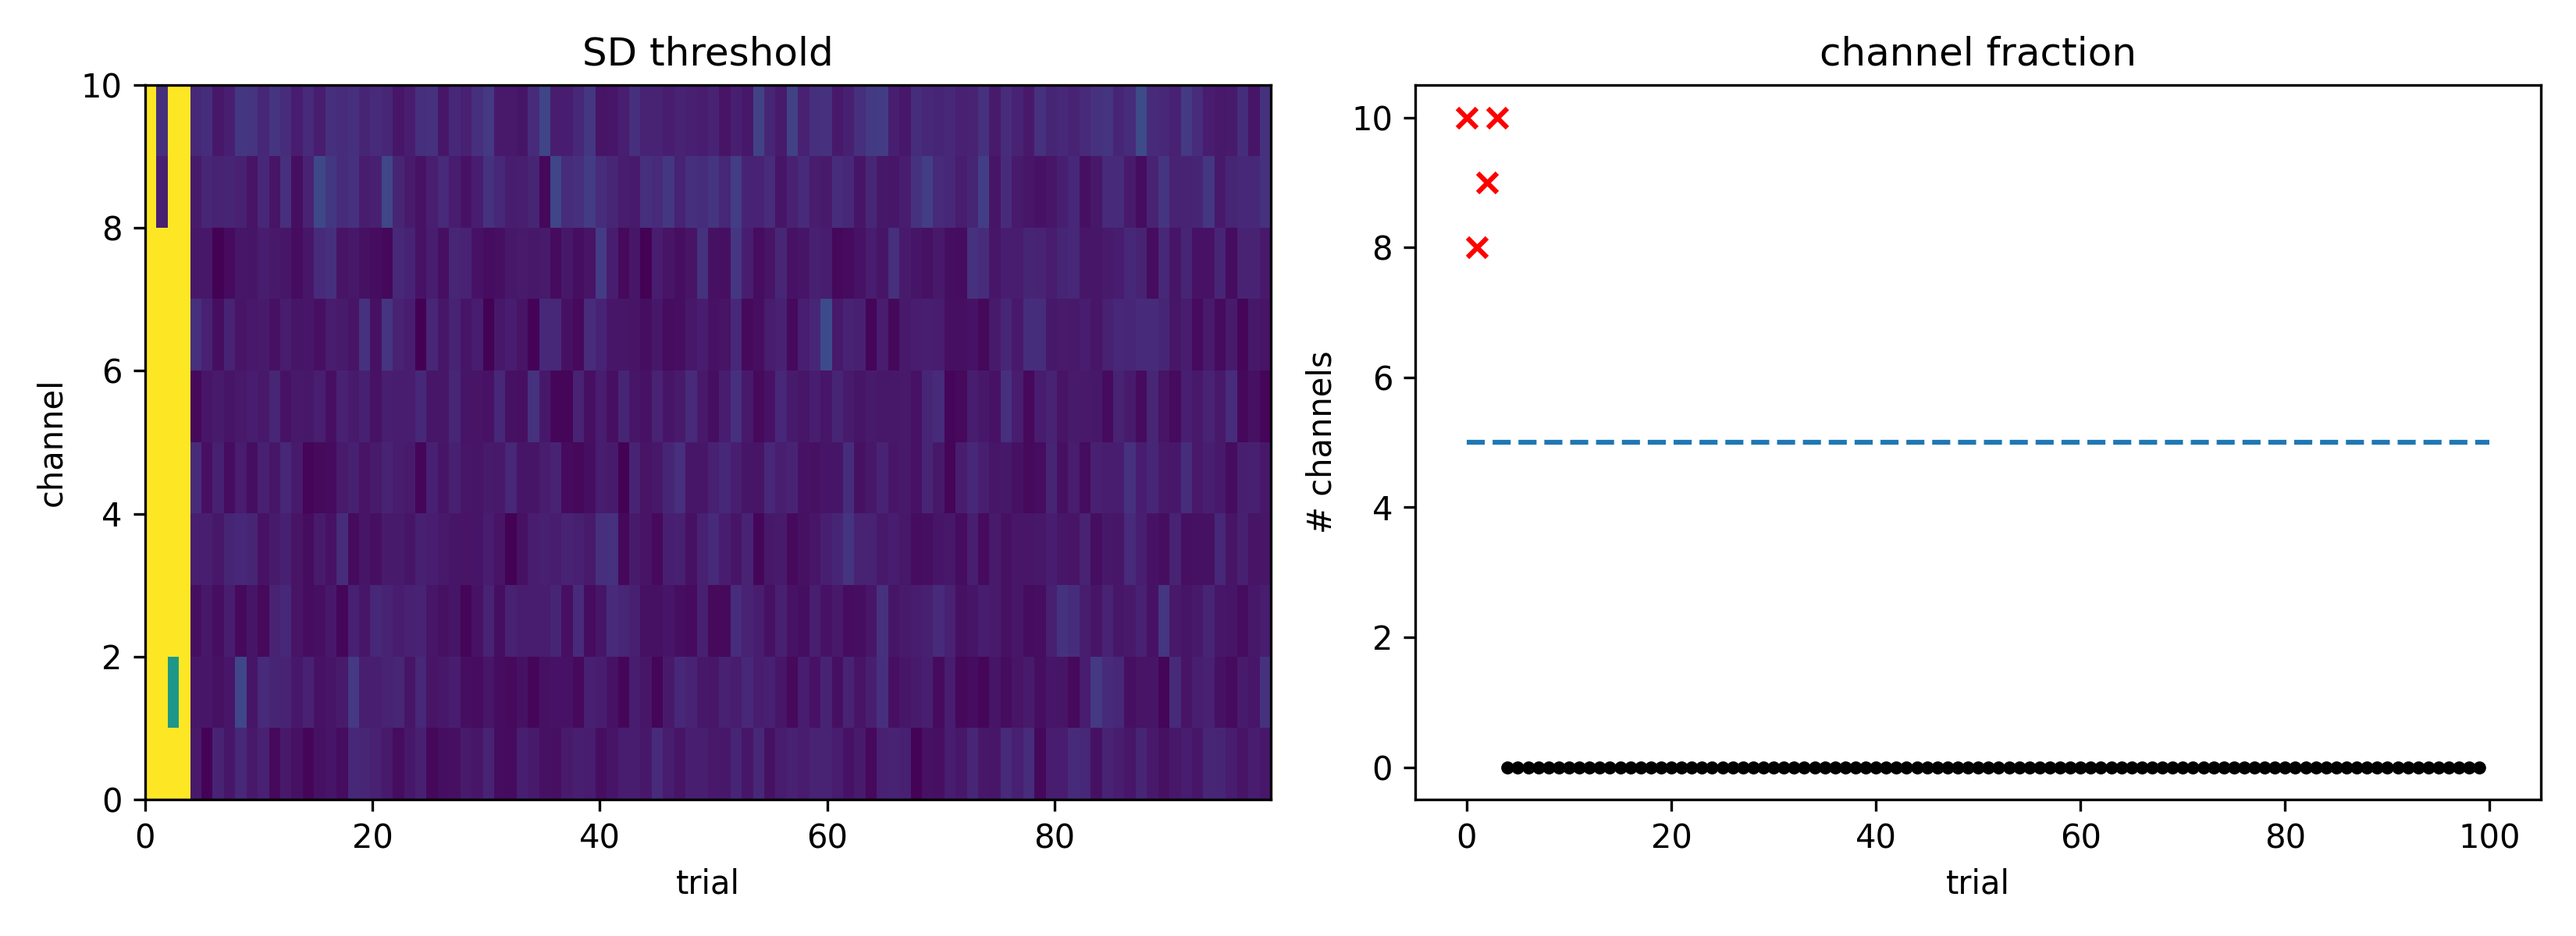
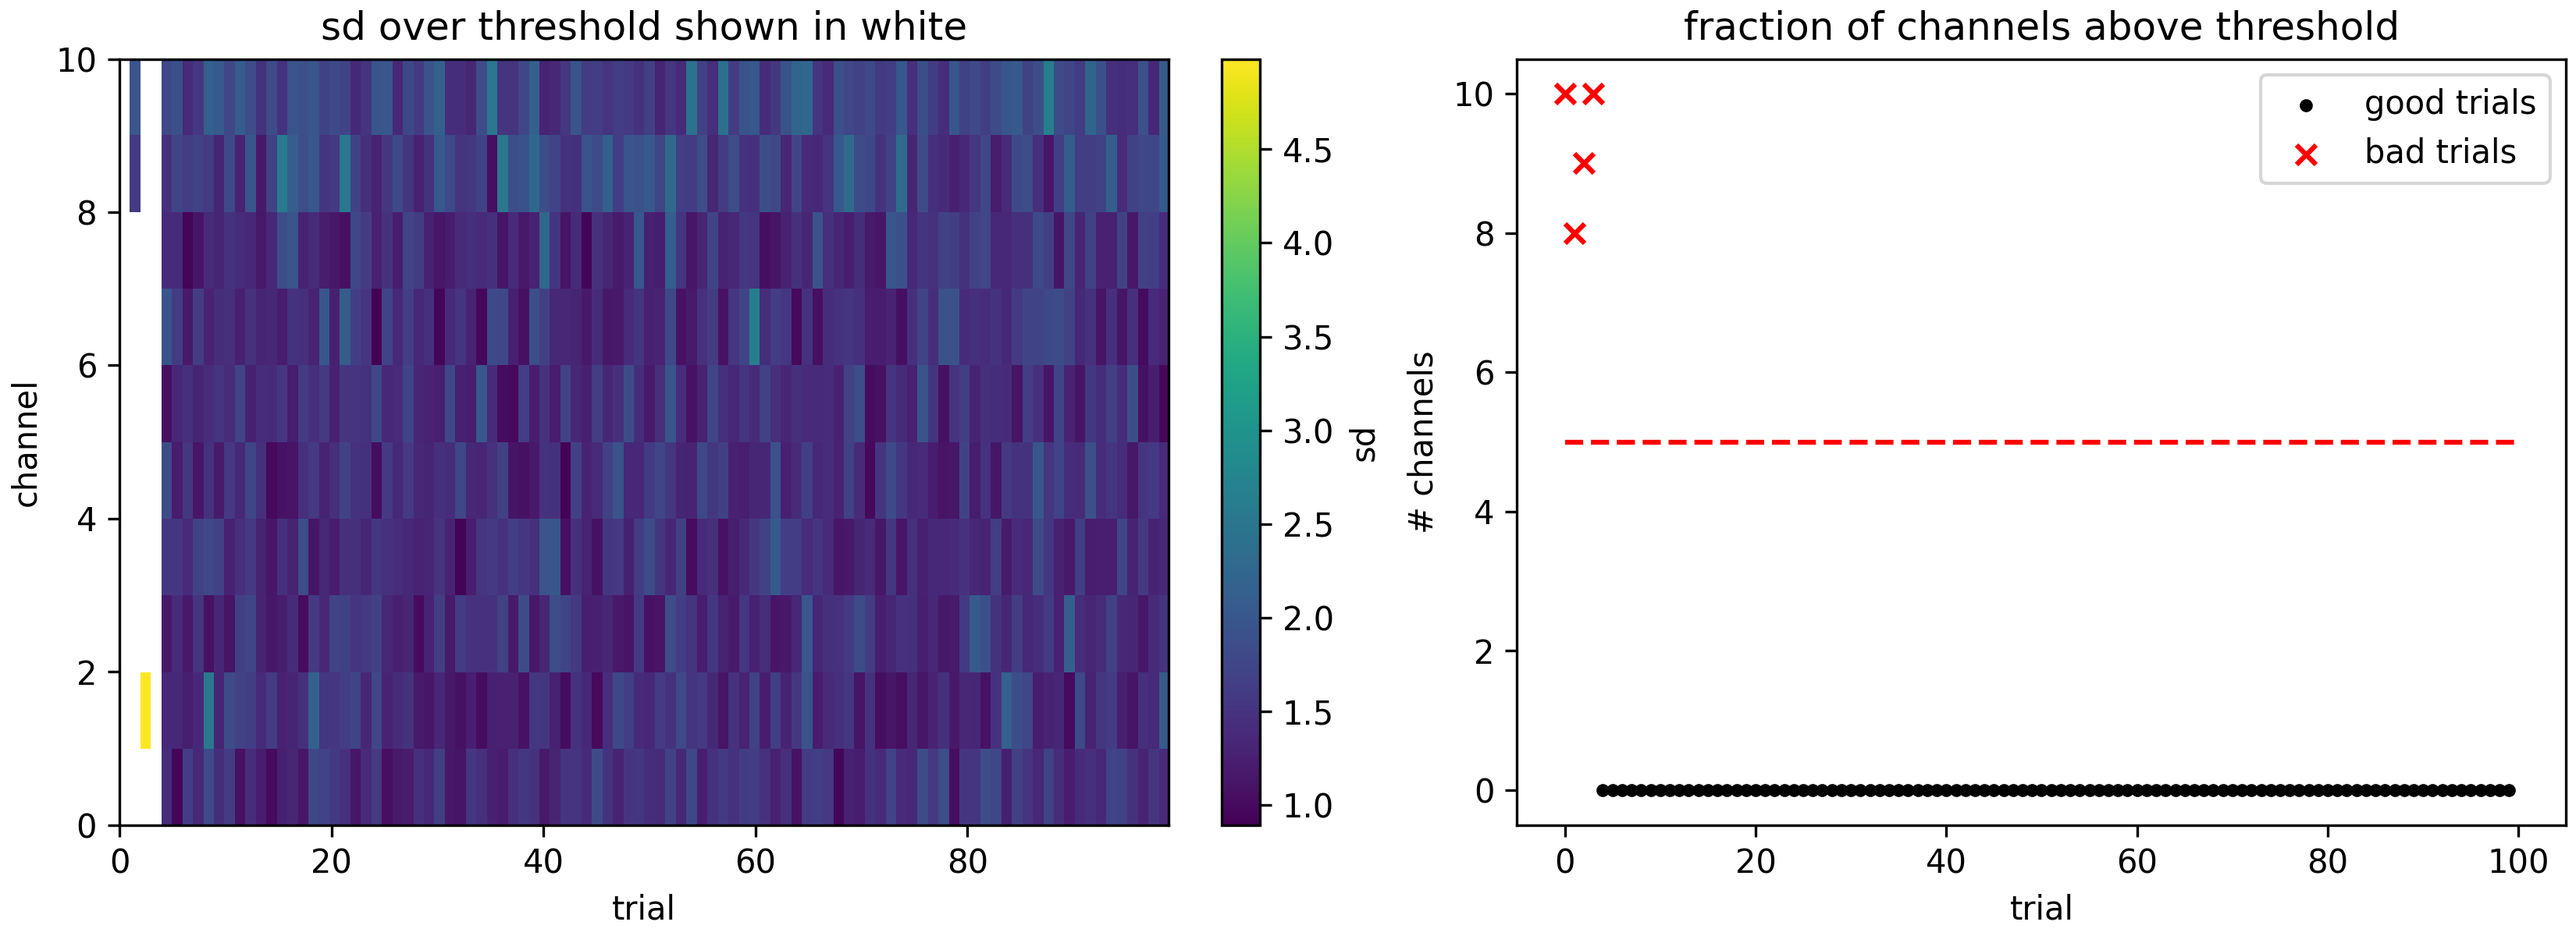
allow nan values

diff --git a/aopy/preproc/quality.py b/aopy/preproc/quality.py
@@ -1,3 +1,5 @@
+import copy
+import matplotlib
 from .. import precondition
 from .. import analysis
 from ..utils import print_progress_bar
@@ -148,7 +150,7 @@ def detect_bad_trials(erp, sd_thr=5, ch_frac=0.5, debug=False):
     nt, nch, ntr = erp.shape
     
     median = np.nanmedian(erp, axis=(0,2), keepdims=True)
-    sd = np.std(erp, axis=(0,2), keepdims=True)
+    sd = np.nanstd(erp, axis=(0,2), keepdims=True)
     
     bad_timepoints = abs(erp - median) > sd_thr*sd
         
@@ -158,29 +160,32 @@ def detect_bad_trials(erp, sd_thr=5, ch_frac=0.5, debug=False):
     if debug:
 
         # Highlight bad timepoints across trials
-        plt.figure(figsize=(11,4))
+        plt.figure(figsize=(11,4), layout='compressed')
         plt.subplot(1,2,1)
         erp = abs(erp - median)/sd
-        erp = np.max(erp, axis=0)
-        erp[bad_ch_trials] = np.max(erp)
+        erp = np.nanmax(erp, axis=0)
+        erp[bad_ch_trials] = np.nan
         trials = np.arange(ntr)
-        plot_image_by_time(trials, erp.T, ylabel='channel', cmap='viridis')
-        plt.xlabel('trial')
-        
-        plt.title('SD threshold')
+        cmap = copy.copy(matplotlib.cm.get_cmap('viridis'))
+        cmap.set_bad(color='w') # set the 'bad' color to white
+        im = plot_image_by_time(trials, erp.T, ylabel='channel', cmap=cmap)
+        cbar = plt.colorbar(im)
+        cbar.set_label('sd')
+        plt.xlabel('trial')        
+        plt.title('sd over threshold shown in white')
         
         # Plot number of bad channels for each trial
         plt.subplot(1,2,2)
         ch = np.sum(bad_ch_trials, axis=0)
         trial = np.arange(ntr)
-        plt.scatter(trial[~bad_trials], ch[~bad_trials], marker='.', color='k')
-        plt.scatter(trial[bad_trials], ch[bad_trials], marker='x', color='r')
+        plt.scatter(trial[~bad_trials], ch[~bad_trials], marker='.', color='k', label='good trials')
+        plt.scatter(trial[bad_trials], ch[bad_trials], marker='x', color='r', label='bad trials')
         plt.xlabel('trial')
         plt.ylabel('# channels')
-        plt.hlines(ch_frac*nch, 0, ntr, linestyles='dashed')
-        plt.title('channel fraction')
-        plt.tight_layout()
-
+        plt.hlines(ch_frac*nch, 0, ntr, linestyles='dashed', color='r')
+        plt.title('fraction of channels above threshold')
+        plt.legend()
+        
     return bad_trials
 
 # python implementation of highFreqTimeDetection.m - looks for spectral signatures of junk data
